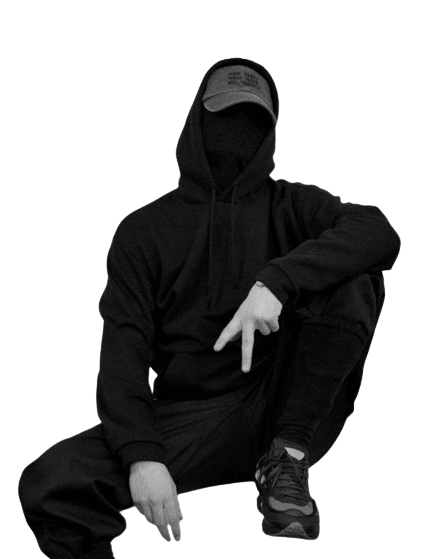
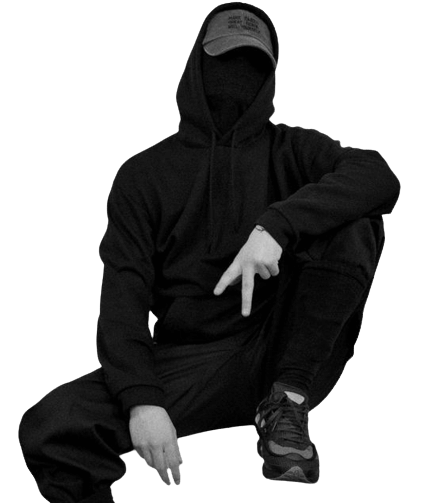
Alternative main

diff --git a/src/layout/sections/alternativeMain/AlternativeMain.tsx b/src/layout/sections/alternativeMain/AlternativeMain.tsx
@@ -1,0 +1,115 @@
+import React from 'react';
+import styled from "styled-components";
+import { Button } from "../../../components/Button";
+import { mainTheme } from "../../../components/styles/Theme";
+import { Container } from "../../../components/Container";
+import { FlexWrapper } from "../../../components/FlexWrapper";
+import { SocialMenu } from "../../../components/socialMenu/SocialMenu";
+import { Photo } from "../../../components/Photo";
+import image from "../../../assets/images/main/photo_first1.png";
+
+export const AlternativeMain = () => {
+    return (
+        <StyledAlternativeMain>
+            <Container>
+                <FlexWrapper alighI={'flex-end'} justify={'space-between'}>
+                    <Intro>
+                        <Name>I'm Daria</Name>
+                        <Title><strong>web designer</strong> and <strong>front-end developer</strong></Title>
+                        <Button as='a'>Contact me &#126;&#126;&gt;</Button>
+                    </Intro>
+                    <SocialMenu title={'Follow me'} links={socials}></SocialMenu>
+                </FlexWrapper>
+                <Wrap><Photo src={image} width={'45%'}  alt='Photo of a web-designer.'/></Wrap>
+
+            </Container>
+        </StyledAlternativeMain>
+    );
+};
+
+const StyledAlternativeMain = styled.section`
+    position: relative;
+    overflow: hidden;
+
+    //background-image: radial-gradient(farthest-side at 10% 0, rgba(0, 299, 299, 0.5) 0%, transparent 30%, transparent 100%), radial-gradient(circle farthest-side at 0 50px, rgba(233, 97, 255, 0.4) 0%, transparent 50%, transparent 100%);
+    
+    ${FlexWrapper} {
+        position: relative;
+        height: 560px;
+        
+        &::before {
+            content: 'CREATIVE';
+            position: absolute;
+            font-size: 200px;
+            font-weight: 700;
+            z-index: -1;
+            top: 50px;
+            color: ${mainTheme.colors.grey.light};
+            opacity: 0.1;
+            text-align: center;
+            left: 0;
+            right: 0;
+        }
+    }
+`
+
+const Wrap = styled.div`
+    width: 100%;
+    position: absolute;
+    top: 50px;
+    transform: translateX(20%);
+    z-index: -1;
+    
+    &::before {
+        content: '';
+        position: absolute;
+        display: block;
+        width: 100%;
+        height: 100%;
+        background: linear-gradient(transparent 0%, transparent 80%, ${mainTheme.colors.primary} 100%);
+    }
+`
+
+const Intro = styled.div`
+    width: 45%;
+`
+
+const Name = styled.span`
+`
+
+const Title = styled.h1`
+    margin: 20px 0 30px;
+    color: ${mainTheme.colors.font};
+    font-size: ${mainTheme.fontSize.headline};
+    
+    & strong {
+        color: ${mainTheme.colors.accent};
+    }
+`
+
+const Social = styled.div`
+`
+
+const socials = [
+    {
+        link: '#1',
+        name: 'Telegram',
+        icon: 'telegram',
+    },
+    {
+        link: '#2',
+        name: 'Email',
+        icon: 'email',
+    },
+    {
+        link: '#3',
+        name: 'Linkedin',
+        icon: 'linkedin',
+    },
+    {
+        link: '#3',
+        name: 'Location',
+        icon: 'location',
+    },
+
+];

diff --git a/src/components/socialMenu/SocialMenu.tsx b/src/components/socialMenu/SocialMenu.tsx
@@ -5,6 +5,7 @@ import styled from "styled-components";
 import { mainTheme } from "../styles/Theme";
 
 export type SocialMenuPropsType = {
+    title: string,
     links: Array<SocialPropsType>,
 }
 
@@ -16,7 +17,7 @@ type SocialPropsType = {
 export const SocialMenu = (props: SocialMenuPropsType) => {
     return (
         <StyledSocialMenu>
-            <Title>Media</Title>
+            <Title>{props.title}</Title>
             <ul>
                 {
                     props.links.map((props: SocialPropsType) => {

diff --git a/src/layout/footer/Footer.tsx b/src/layout/footer/Footer.tsx
@@ -18,7 +18,7 @@ export const Footer = () => {
                         <a href={'mailto:elias@elias-dev.ml'}>elias@elias-dev.ml</a>
                         <p>Web designer and front-end developer</p>
                     </Info>
-                    <SocialMenu links={socials}></SocialMenu>
+                    <SocialMenu links={socials} title={'Media'}></SocialMenu>
                 </FlexWrapper>
                 <Copyright>© Copyright 2022. Made by Elias</Copyright>
             </Container>

diff --git a/src/components/Photo.tsx b/src/components/Photo.tsx
@@ -6,9 +6,9 @@ export const Photo = styled.img.attrs((props) => ({
   height: props.height,
   alt: props.alt,
 }))`
-  position: relative;
   display: block;
   width: ${props => props.width};
   height: ${props => props.height};
   object-fit: cover;
+  object-position: 0 0;
 `

diff --git a/src/App.tsx b/src/App.tsx
@@ -16,8 +16,8 @@ function App() {
             <Header/>
             <AsideBar/>
             <main>
-                {/*<Main/>*/}
                 <AlternativeMain/>
+                <Main/>
                 <Projects/>
                 <Skills/>
                 <About/>
